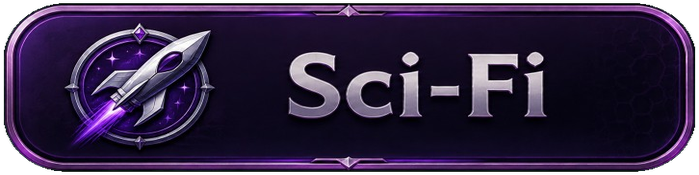
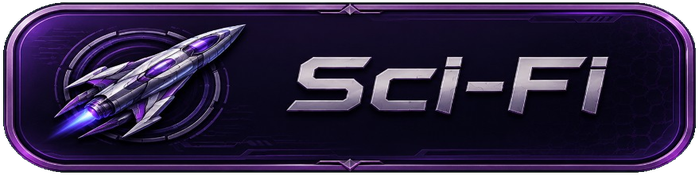
Update Sci-Fi topic tab art and cache-bust topic images.
Replace scifi.png with the new rocket design and append ?v= on topic tab URLs so browsers pick up asset swaps after deploy.

diff --git a/index.html b/index.html
@@ -1942,7 +1942,8 @@
    Granny Boom — Slay aliens while you sharpen your writing (v1.0)
    Game logic in this file; story templates in js/stories-data.js.
    ============================================================ */
-const APP_VERSION = 'v1.0';
+const APP_VERSION = 'v1.0.1';
+const ASSET_VERSION = '2'; // bump when topic/story art changes (cache-bust)
 
 /* --------------------- STATE / STORAGE --------------------- */
 // Dev mode is opt-in via "?dev" on the URL. It exposes the Test Fly button
@@ -3497,7 +3498,7 @@ function renderHome(app) {
       title: t.name,
       onclick: () => { state.selectedTopic = t.id; saveState(); render(); }
     },
-      el('img', { src: `topics/${t.id}.png`, alt: t.name }),
+      el('img', { src: `topics/${t.id}.png?v=${ASSET_VERSION}`, alt: t.name }),
       el('span', { class: 'progress' }, `${cnt}/${storiesPerTopic(t.id)}`)
     );
     tabs.appendChild(tab);